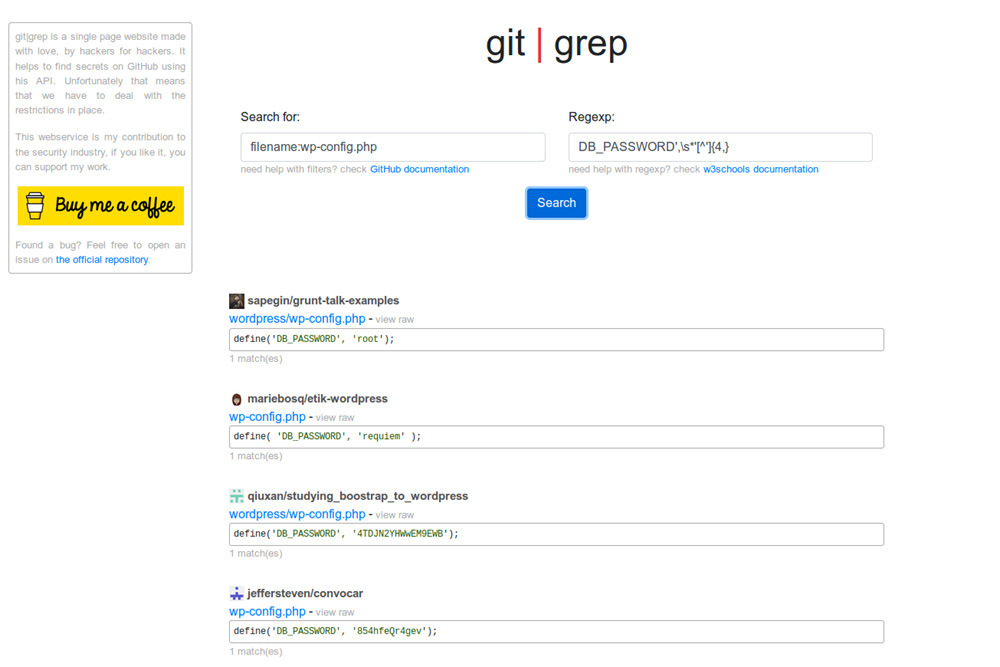
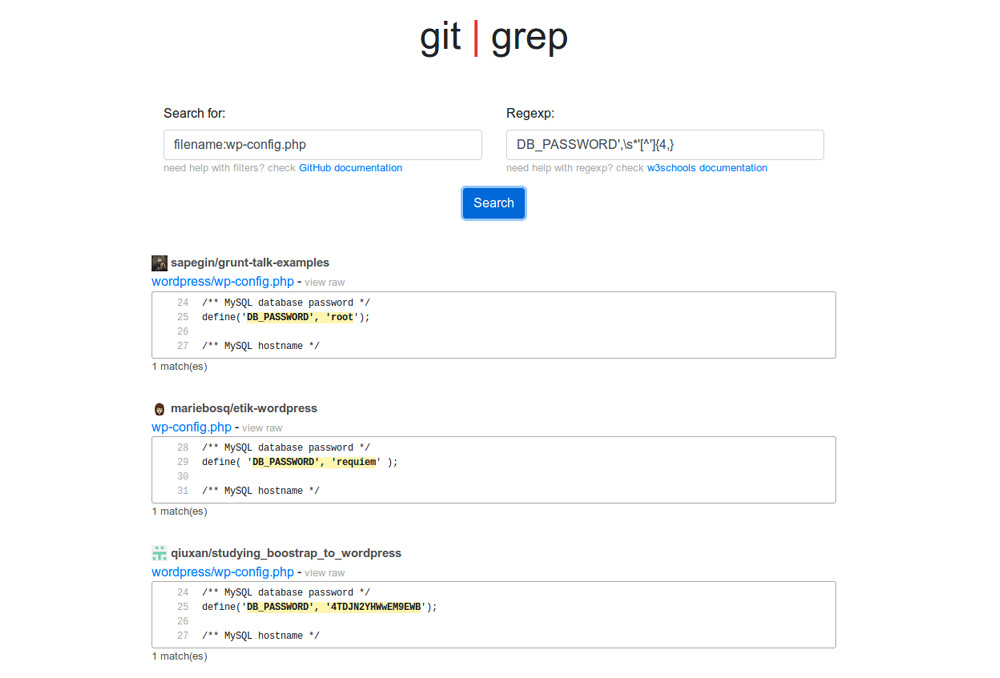
line number

diff --git a/js/gitgrep.js b/js/gitgrep.js
@@ -1,4 +1,7 @@
 $(document).ready(function(){
+    if( $(window).width() < 1400 ) {
+        $('#site-infos').hide();
+    }
     $('#search-filter').focus();
     $('#search-form').submit(function(e){
         e.preventDefault();
@@ -57,14 +60,43 @@ function search()
 
 function generate_code( matches )
 {
-    code = '';
-    n_match = matches.length - 1;
+    var code = '';
+    var n_match = matches.length - 1;
+
     $.each(matches,function(index) {
         code = code + matches[index][0] + '<span class="code-highlight">' + matches[index][1] + '</span>' + matches[index][2];
         if( index < n_match ) {
             code = code + '<br>---<br>';
         }
     });
+
+    return code;
+}
+
+function generate_code_with_lines( matches )
+{
+    var code = '';
+    var n_match = matches.length - 1;
+
+    $.each(matches,function(index) {
+
+        var start_line = matches[index][0];
+
+        for( var i=1 ; i<matches[index].length ; i++ ) {
+            code = code + '<div class="line-result">';
+            code = code + '<div class="line-number">' + (start_line+i-1) + '</div>';
+            code = code + '<div class="line-code">' + matches[index][i] + '</div>';
+            code = code + '</div>';
+        }
+
+        if( index < n_match ) {
+            code = code + '<div class="line-result">';
+            code = code + '<div class="line-number">&nbsp;</div>';
+            code = code + '<div class="line-code">---</div>';
+            code = code + '</div>';
+        }
+    });
+
     return code;
 }
 
@@ -82,7 +114,7 @@ function display_results( datas )
             clone.find('.link-file').attr( 'href', item['file_html_url'] );
             clone.find('.link-file').html( item['file_path'] );
             clone.find('.link-rawfile').attr( 'href', item['file_raw_url'] );
-            clone.find('.code').html( generate_code(item['matches']) );
+            clone.find('.code').html( generate_code_with_lines(item['matches']) );
             clone.find('.n-match').html( item['n_match']+' match(es)' );
             clone.removeClass('d-none');
             clone.appendTo( '#results-container' );

diff --git a/css/gitgrep.css b/css/gitgrep.css
@@ -64,3 +64,18 @@ h1 {
     color: #555;
     font-size: 0.8rem;
 }
+.result-single .code .line-number {
+    color: #AAA;
+    float: left;
+    min-width: 50px;
+    padding-left: 10px;
+    padding-right: 10px;
+    text-align: right;
+}
+.result-single .code .line-number:before {
+    content: "\00A0";
+ }
+.result-single .code .line-code:before {
+    content: "\00A0";
+ }
+ 

diff --git a/functions.php b/functions.php
@@ -109,6 +109,29 @@ function get_raw_url( &$item )
 }
 
 
+// reorder output of preg_match to fit our needs
+function reorder_matches( $config, $code, $matches )
+{
+    $reorder = [];
+    $n_match = count( $matches );
+    
+    for( $i=0; $i<$n_match && $i<$config['max_result_displayed'] ; $i++ )
+    {
+        $prefix = get_prefix( $code, $matches[$i][0][1], $config['context_lines']+1 );
+        $suffix = get_suffix( $code, $matches[$i][0][1]+strlen($matches[$i][0][0]), $config['context_lines'] );
+        
+        $start_line = substr_count( $code, "\n", 0, $matches[$i][0][1]-strlen($prefix) ) + 1;
+        $final_string = $prefix . '<span class="code-highlight">' . $matches[$i][0][0] . '</span>' . $suffix;
+
+        $tmp = array_merge( [$start_line], explode("\n",$final_string) );
+        
+        $reorder[] = $tmp;
+    }
+
+    return $reorder;
+}
+
+
 function get_prefix( $code, $pos, $n_lines )
 {
     $code = substr( $code, 0, $pos );
@@ -151,42 +174,6 @@ function format_string( $str, $max_length=0 )
     }
 
     return $str;
-}
-
-
-// reorder output of preg_match to fit our needs
-function reorder_matches( $config, $code, $matches )
-{
-    $reorder = [];
-    $n_match = count( $matches );
-    
-    for( $i=0; $i<$n_match && $i<$config['max_result_displayed'] ; $i++ )
-    {
-        $prefix = get_prefix( $code, $matches[$i][0][1], $config['context_lines']+1 );
-        $suffix = get_suffix( $code, $matches[$i][0][1]+strlen($matches[$i][0][0]), $config['context_lines'] );
-        
-        $tmp= [
-            format_string( $prefix, -$config['fix_max_length'] ),
-            format_string( $matches[$i][0][0] ),
-            format_string( $suffix, $config['fix_max_length'] ),
-        ];
-
-        $reorder[] = $tmp;
-    }
-
-    // $reorder = [];
-    // $n_match = count( $matches[0] );
-
-    // for( $i=0; $i<$n_match && $i<$max_result_displayed ; $i++ ) {
-    //     $tmp= [
-    //         htmlentities( utf8_encode($matches[1][$i]) ),
-    //         htmlentities( utf8_encode($matches[2][$i]) ),
-    //         htmlentities( utf8_encode($matches[3][$i]) ),
-    //     ];
-    //     $reorder[] = $tmp;
-    // }
-
-    return $reorder;
 }
 
 
